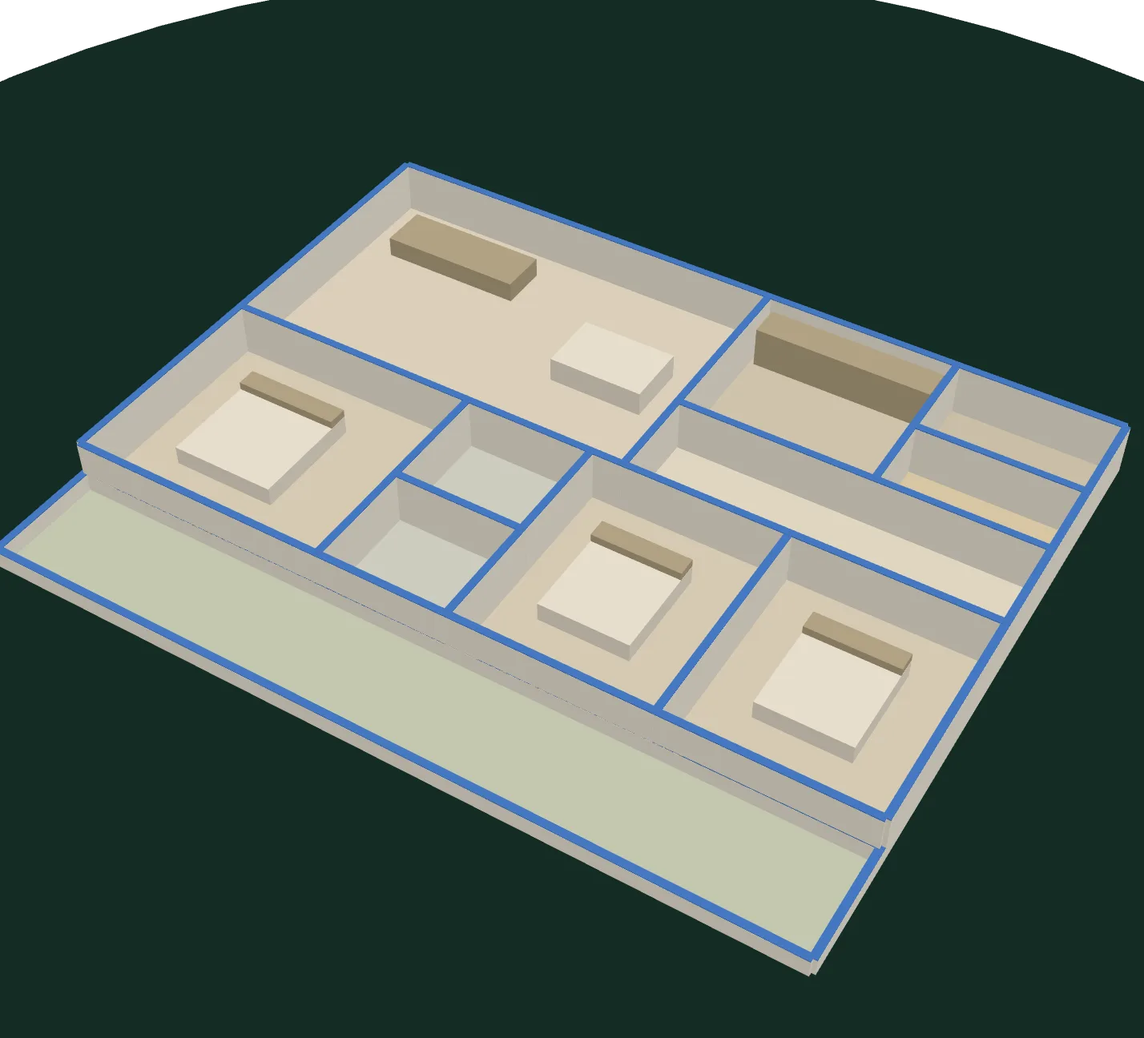
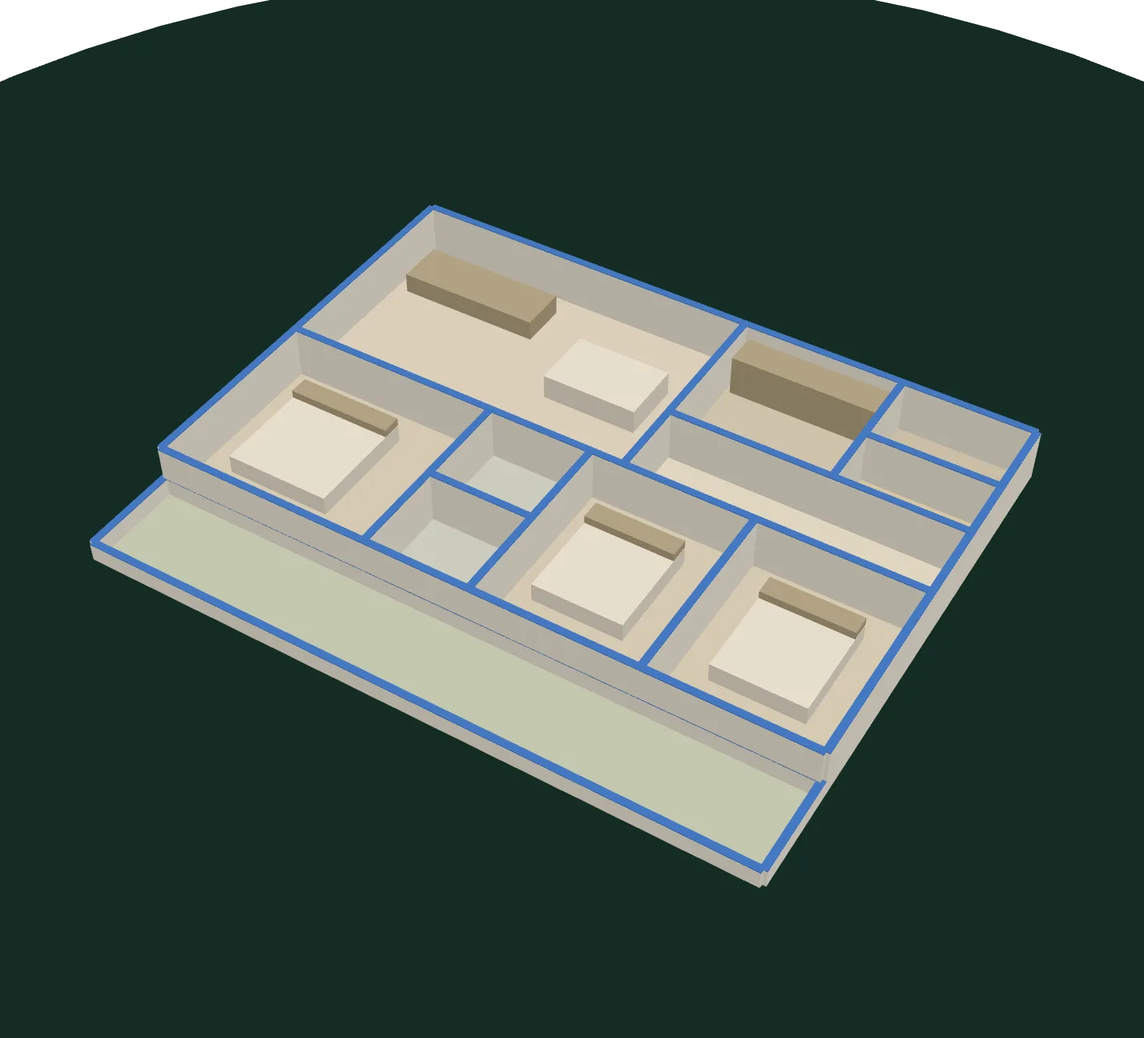
Fixes from the site review, and a CLAUDE.md for the project
- Phone layout: the map no longer pushes the page sideways (427px wide on a 390px phone)
- Visit form sends a pre-filled WhatsApp message; email stays as a fallback link
- Availability: an 'Ask about this flat on WhatsApp' button with the flat's details
- Floor plans scaled so the rooms add up; carpet area and balcony shown beside super built-up
- Contrast: muted grey #56665e, deeper turmeric for the build-stage titles, stronger muted heading lines
- Maps pin on coordinates, so Google's 'No reviews' place card no longer shows
- Router: the logo goes to the top after a section link; Back returns to where you were

Changed region(s): [[0.0, 0.1543, 0.986, 0.9568]]

diff --git a/src/data.js b/src/data.js
@@ -71,34 +71,34 @@ export function flatsFor(projectKey) {
 // Floor plans in feet. x runs west to east, y north to south. Furniture is drawn as low blocks.
 export const PLANS = {
   2: {
-    label: '2 BHK', area: 1180, w: 40, d: 34,
+    label: '2 BHK', area: 1180, w: 33, d: 28,
     rooms: [
-      { id: 'living',   name: 'Living and dining', x: 0,  y: 0,  w: 22, d: 16, tone: '#E9E1CF', items: [{ t: 'sofa', x: 2, y: 2, w: 8, d: 3 }, { t: 'table', x: 14, y: 5, w: 5, d: 3.5 }] },
-      { id: 'kitchen',  name: 'Kitchen',           x: 22, y: 0,  w: 10, d: 10, tone: '#DCD3BF', items: [{ t: 'counter', x: 22.5, y: 0.5, w: 9, d: 2 }] },
-      { id: 'utility',  name: 'Utility',           x: 32, y: 0,  w: 8,  d: 6,  tone: '#D6CDB8', items: [] },
-      { id: 'pooja',    name: 'Pooja room',        x: 32, y: 6,  w: 8,  d: 4,  tone: '#E6D6B4', items: [] },
-      { id: 'foyer',    name: 'Foyer',             x: 22, y: 10, w: 18, d: 6,  tone: '#EEE7D7', items: [] },
-      { id: 'bed1',     name: 'Bedroom 1',         x: 0,  y: 16, w: 16, d: 13, tone: '#E2DAC6', items: [{ t: 'bed', x: 3, y: 19, w: 6, d: 7 }] },
-      { id: 'bath1',    name: 'Bath 1',            x: 16, y: 16, w: 8,  d: 7,  tone: '#D9DCD3', items: [] },
-      { id: 'bed2',     name: 'Bedroom 2',         x: 24, y: 16, w: 16, d: 13, tone: '#E2DAC6', items: [{ t: 'bed', x: 31, y: 19, w: 5, d: 6.5 }] },
-      { id: 'bath2',    name: 'Bath 2',            x: 16, y: 23, w: 8,  d: 6,  tone: '#D9DCD3', items: [] },
-      { id: 'balcony',  name: 'Balcony',           x: 0,  y: 29, w: 40, d: 5,  tone: '#CFD8C4', items: [] },
+      {id: 'living', name: 'Living and dining', x: 0, y: 0, w: 18, d: 13, tone: '#E9E1CF', items: [{t: 'sofa', x: 1, y: 1.5, w: 8, d: 3},{t: 'table', x: 11, y: 4, w: 5, d: 3.5}]},
+      {id: 'kitchen', name: 'Kitchen', x: 18, y: 0, w: 8.5, d: 8, tone: '#DCD3BF', items: [{t: 'counter', x: 18.5, y: 0.5, w: 7.5, d: 2}]},
+      {id: 'utility', name: 'Utility', x: 26.5, y: 0, w: 6.5, d: 5, tone: '#D6CDB8', items: []},
+      {id: 'pooja', name: 'Pooja room', x: 26.5, y: 5, w: 6.5, d: 3, tone: '#E6D6B4', items: []},
+      {id: 'foyer', name: 'Foyer', x: 18, y: 8, w: 15, d: 5, tone: '#EEE7D7', items: []},
+      {id: 'bed1', name: 'Bedroom 1', x: 0, y: 13, w: 13, d: 11, tone: '#E2DAC6', items: [{t: 'bed', x: 2, y: 15, w: 6, d: 7}]},
+      {id: 'bath1', name: 'Bath 1', x: 13, y: 13, w: 6.5, d: 6, tone: '#D9DCD3', items: []},
+      {id: 'bed2', name: 'Bedroom 2', x: 19.5, y: 13, w: 13.5, d: 11, tone: '#E2DAC6', items: [{t: 'bed', x: 25, y: 15, w: 5, d: 6.5}]},
+      {id: 'bath2', name: 'Bath 2', x: 13, y: 19, w: 6.5, d: 5, tone: '#D9DCD3', items: []},
+      {id: 'balcony', name: 'Balcony', x: 0, y: 24, w: 33, d: 4, tone: '#CFD8C4', items: []},
     ],
   },
   3: {
-    label: '3 BHK', area: 1640, w: 48, d: 38,
+    label: '3 BHK', area: 1640, w: 40, d: 32,
     rooms: [
-      { id: 'living',   name: 'Living and dining', x: 0,  y: 0,  w: 26, d: 17, tone: '#E9E1CF', items: [{ t: 'sofa', x: 2, y: 2, w: 9, d: 3 }, { t: 'table', x: 17, y: 6, w: 6, d: 4 }] },
-      { id: 'kitchen',  name: 'Kitchen',           x: 26, y: 0,  w: 12, d: 11, tone: '#DCD3BF', items: [{ t: 'counter', x: 26.5, y: 0.5, w: 11, d: 2 }] },
-      { id: 'utility',  name: 'Utility',           x: 38, y: 0,  w: 10, d: 6,  tone: '#D6CDB8', items: [] },
-      { id: 'pooja',    name: 'Pooja room',        x: 38, y: 6,  w: 10, d: 5,  tone: '#E6D6B4', items: [] },
-      { id: 'foyer',    name: 'Foyer',             x: 26, y: 11, w: 22, d: 6,  tone: '#EEE7D7', items: [] },
-      { id: 'bed1',     name: 'Bedroom 1',         x: 0,  y: 17, w: 16, d: 14, tone: '#E2DAC6', items: [{ t: 'bed', x: 3, y: 20, w: 6.5, d: 7 }] },
-      { id: 'bath1',    name: 'Bath 1',            x: 16, y: 17, w: 8,  d: 7,  tone: '#D9DCD3', items: [] },
-      { id: 'bath2',    name: 'Bath 2',            x: 16, y: 24, w: 8,  d: 7,  tone: '#D9DCD3', items: [] },
-      { id: 'bed2',     name: 'Bedroom 2',         x: 24, y: 17, w: 12, d: 14, tone: '#E2DAC6', items: [{ t: 'bed', x: 26.5, y: 20, w: 5.5, d: 6.5 }] },
-      { id: 'bed3',     name: 'Bedroom 3',         x: 36, y: 17, w: 12, d: 14, tone: '#E2DAC6', items: [{ t: 'bed', x: 39, y: 20, w: 5.5, d: 6.5 }] },
-      { id: 'balcony',  name: 'Balconies',         x: 0,  y: 31, w: 48, d: 7,  tone: '#CFD8C4', items: [] },
+      {id: 'living', name: 'Living and dining', x: 0, y: 0, w: 22, d: 14, tone: '#E9E1CF', items: [{t: 'sofa', x: 1, y: 1.5, w: 9, d: 3},{t: 'table', x: 13.5, y: 4.5, w: 6, d: 4}]},
+      {id: 'kitchen', name: 'Kitchen', x: 22, y: 0, w: 10, d: 9, tone: '#DCD3BF', items: [{t: 'counter', x: 22.5, y: 0.5, w: 9, d: 2}]},
+      {id: 'utility', name: 'Utility', x: 32, y: 0, w: 8, d: 5, tone: '#D6CDB8', items: []},
+      {id: 'pooja', name: 'Pooja room', x: 32, y: 5, w: 8, d: 4, tone: '#E6D6B4', items: []},
+      {id: 'foyer', name: 'Foyer', x: 22, y: 9, w: 18, d: 5, tone: '#EEE7D7', items: []},
+      {id: 'bed1', name: 'Bedroom 1', x: 0, y: 14, w: 13.5, d: 12, tone: '#E2DAC6', items: [{t: 'bed', x: 2, y: 16, w: 6.5, d: 7}]},
+      {id: 'bath1', name: 'Bath 1', x: 13.5, y: 14, w: 6.5, d: 6, tone: '#D9DCD3', items: []},
+      {id: 'bath2', name: 'Bath 2', x: 13.5, y: 20, w: 6.5, d: 6, tone: '#D9DCD3', items: []},
+      {id: 'bed2', name: 'Bedroom 2', x: 20, y: 14, w: 10, d: 12, tone: '#E2DAC6', items: [{t: 'bed', x: 21.5, y: 16, w: 5.5, d: 6.5}]},
+      {id: 'bed3', name: 'Bedroom 3', x: 30, y: 14, w: 10, d: 12, tone: '#E2DAC6', items: [{t: 'bed', x: 32, y: 16, w: 5.5, d: 6.5}]},
+      {id: 'balcony', name: 'Balconies', x: 0, y: 26, w: 40, d: 6, tone: '#CFD8C4', items: []},
     ],
   },
 };

diff --git a/src/styles.css b/src/styles.css
@@ -2,7 +2,7 @@
    client's pick. Type: Anek Latin, condensed for display, normal width for text. */
 
 :root {
-  --bg: #f1f2ec; --surface: #e3e6dc; --ink: #0f231d; --muted: #6f7f77; --line: rgb(15 35 29 / .14);
+  --bg: #f1f2ec; --surface: #e3e6dc; --ink: #0f231d; --muted: #56665e; --line: rgb(15 35 29 / .14);
   --accent: #295290; --accent-2: #3567b0; --accent-3: #4179c9; --turmeric: #e0a526;
   --dark: #0f231d; --dark-2: #16302a; --cream: #f1f2ec; --on-dark-muted: #a3b2a8;
   --gut: clamp(20px, 5.5vw, 80px); --max: 1360px; --nav: 76px;
@@ -13,7 +13,7 @@
 }
 
 *, *::before, *::after { box-sizing: border-box; }
-html { scroll-behavior: smooth; -webkit-text-size-adjust: 100%; }
+html { scroll-behavior: smooth; -webkit-text-size-adjust: 100%; overflow-x: clip; }   /* nothing may push the page sideways */
 html.is-locked { overflow: hidden; }
 body { margin: 0; background: var(--bg); color: var(--ink); font: 400 1.0625rem/1.5 var(--text); font-optical-sizing: auto; -webkit-font-smoothing: antialiased; }
 img, video, iframe { display: block; max-width: 100%; }
@@ -39,7 +39,7 @@ input, textarea, select { -webkit-user-select: text; user-select: text; }
 h1, h2, h3, .display { font-family: var(--display); font-stretch: 76%; font-weight: 560; letter-spacing: -0.02em; line-height: .98; text-wrap: balance; }
 h2 { font-size: clamp(38px, 5.2vw, 84px); }
 h3 { font-size: clamp(26px, 2.4vw, 36px); }
-.is-muted { color: color-mix(in oklab, currentColor 42%, transparent); }
+.is-muted { color: color-mix(in oklab, currentColor 62%, transparent); }
 .label { font-size: 0.9375rem; font-weight: 500; color: var(--turmeric); }
 
 /* words rising out of a mask */
@@ -223,10 +223,11 @@ h3 { font-size: clamp(26px, 2.4vw, 36px); }
 .rows--route .num b { overflow: hidden; }
 .rows__go { display: inline-flex; width: 14px; opacity: 0; translate: -6px 0; transition: opacity .2s, translate .3s var(--ease); }
 .rows--route > li:is(:hover, .is-on, :focus-visible) .rows__go { opacity: 1; translate: 0 0; }
-.mapcard { display: grid; gap: 14px; position: sticky; top: 12vh; }
+.mapcard { display: grid; gap: 14px; position: sticky; top: 12vh; min-width: 0; }
 .mapcard__tabs { justify-self: start; max-width: 100%; overflow-x: auto; scrollbar-width: none; }
 .mapcard__tabs button { white-space: nowrap; }
-.mapcard__map { min-height: 0; height: clamp(380px, 62vh, 620px); box-shadow: inset 0 0 0 1px var(--line); }
+/* width from the column, never from the .gmap aspect ratio (that pushed the page sideways on phones) */
+.mapcard__map { min-height: 0; width: 100%; aspect-ratio: auto; height: clamp(380px, 62vh, 620px); box-shadow: inset 0 0 0 1px var(--line); }
 .mapcard__map iframe { position: absolute; inset: 0; width: 100%; height: 100%; border: 0; }
 .mapcard__note { min-height: 1.5em; font-size: 0.9375rem; color: var(--muted); }
 .mapcard__note b { color: var(--ink); font-weight: 600; }
@@ -352,6 +353,7 @@ h3 { font-size: clamp(26px, 2.4vw, 36px); }
 .flat dl { display: grid; grid-template-columns: 1fr 1fr; gap: 16px 24px; margin-top: 16px; }
 .flat dt { font-size: 0.8125rem; color: var(--muted); }
 .flat dd { margin-top: 2px; font-size: 1.125rem; font-weight: 500; }
+.flat__ask { margin-top: 20px; }
 
 /* ---------- gallery and lightbox ---------- */
 .wall { display: grid; grid-template-columns: repeat(12, minmax(0, 1fr)); grid-auto-rows: clamp(180px, 24vw, 340px); gap: 6px; }
@@ -424,7 +426,7 @@ h3 { font-size: clamp(26px, 2.4vw, 36px); }
   .nav__toggle { display: block; }
   .split, .split--viz, .stages { grid-template-columns: 1fr; }
   .split--map > .mapcard { position: relative; top: 0; order: -1; }
-  .mapcard__map { height: min(78vw, 440px); }
+  .mapcard__map { height: min(78vw, 440px); aspect-ratio: auto; }
   .split--viz > .viz { position: relative; top: 0; order: -1; height: min(74vw, 480px); }
   .fill { min-height: 0; height: auto; }
   .pic.fill { aspect-ratio: 4 / 3; }
@@ -504,8 +506,9 @@ h3 { font-size: clamp(26px, 2.4vw, 36px); }
   .is-muted { color: inherit; }
 }
 
-/* the build-stages section: its heading and the four stage titles in the site's turmeric (the client's choice) */
-#build .head h2, #build .stages__steps h3 { color: var(--turmeric); }
+/* the build-stages section: its heading and the four stage titles in the site's turmeric (the client's choice), taken a few
+   shades deeper on this light background so they pass contrast for large text (3.5:1; the bright turmeric was 1.7:1) */
+#build .head h2, #build .stages__steps h3 { color: #9c6f0c; }
 
 /* a toggle is only as wide as its options, even inside a stretched panel */
 .seg { justify-self: start; }

diff --git a/src/Project.jsx b/src/Project.jsx
@@ -3,7 +3,7 @@
 import { useCallback, useEffect, useMemo, useRef, useState } from 'react';
 import { motion, AnimatePresence, LayoutGroup, useMotionValue, useTransform } from 'framer-motion';
 import { Link, BASE, Words, Rise, Picture, Counter, Arrow, EASE, SPRING, FLICK, project, tick } from './lib.jsx';
-import { Nav, Hero, Viz, Head, Visit, Footer, gmaps } from './components.jsx';
+import { Nav, Hero, Viz, Head, Visit, Footer, gmaps, wa } from './components.jsx';
 import { PROJECTS, PLANS, MAP, STATUS, flatsFor } from './data.js';
 import { PAGES, ORDER } from './content.js';
 
@@ -74,6 +74,15 @@ function Availability({ page }) {
                     <div><dt>Facing</dt><dd>{f.facing}</dd></div>
                     <div><dt>Status</dt><dd><i className="dot" style={{ background: STATUS[f.status].color }} />{STATUS[f.status].label}</dd></div>
                   </dl>
+                  {/* the next step for the flat on show: ask about it by name, with the details already in the message */}
+                  {f.status !== 'sold' && (() => {
+                    const name = `Flat ${f.floor}${f.unit}${proj.towers.length > 1 ? `, Tower ${f.tower}` : ''}`;
+                    return (
+                      <a className="btn btn--solid flat__ask" target="_blank" rel="noopener"
+                        href={wa(`Hello Tamala Homes, I'm interested in ${name} at Tamala ${page.short} (${f.bhk} BHK, ${f.area.toLocaleString('en-IN')} sq ft, ${f.facing} facing). Please share the price and a time to see it.`)}>
+                        Ask about {f.floor}{f.unit} on WhatsApp<Arrow /></a>
+                    );
+                  })()}
                 </motion.div>
               </AnimatePresence>
             </div>
@@ -115,7 +124,19 @@ function Plans({ page }) {
               <Seg label="Flat type" value={bhk} onChange={setBhk} options={[[2, '2 BHK'], [3, '3 BHK']]} />
               <Seg label="View" value={mode} onChange={setMode} options={[['3d', '3D'], ['layout', 'Layout']]} />
             </div>
-            <ul className="rows rows--tight"><li><span>Super built-up area</span><span className="num">{plan.area.toLocaleString('en-IN')} sq ft</span></li></ul>
+            {/* the three areas a buyer compares: carpet (the rooms inside the walls, as RERA counts it), the balcony, and the
+                super built-up figure the flat is sold by. Carpet is worked out from the plan itself, so the numbers always add up */}
+            {(() => {
+              const sq = r => r.w * r.d, bal = plan.rooms.filter(r => r.id === 'balcony').reduce((s, r) => s + sq(r), 0);
+              const carpet = plan.rooms.reduce((s, r) => s + sq(r), 0) - bal;
+              return (
+                <ul className="rows rows--tight">
+                  <li><span>Carpet area</span><span className="num">{Math.round(carpet).toLocaleString('en-IN')} sq ft</span></li>
+                  <li><span>Balcony</span><span className="num">{Math.round(bal).toLocaleString('en-IN')} sq ft</span></li>
+                  <li><span>Super built-up area</span><span className="num">{plan.area.toLocaleString('en-IN')} sq ft</span></li>
+                </ul>
+              );
+            })()}
             <ul className="rows rows--tight rows--hover" aria-label="Rooms" onMouseLeave={() => setRoom(null)}>
               <AnimatePresence mode="popLayout" initial={false}>
                 {plan.rooms.map((r, i) => (
@@ -290,7 +311,7 @@ export default function Project({ page }) {
                 </p>
               </div>
               <Rise className="gmap fill">
-                <iframe title={`Google map of ${page.place}, Guntur`} src={`https://www.google.com/maps?q=${encodeURIComponent(place)}&z=14&output=embed`} loading="lazy" referrerPolicy="no-referrer-when-downgrade" allowFullScreen />
+                <iframe title={`Google map of ${page.place}, Guntur`} src={`https://www.google.com/maps?q=${page.ll}&z=15&output=embed`} loading="lazy" referrerPolicy="no-referrer-when-downgrade" allowFullScreen />
               </Rise>
             </div>
           </div>

diff --git a/src/components.jsx b/src/components.jsx
@@ -237,8 +237,12 @@ export function Visit({ project, heading, lead, photo, spot }) {
     for (const k of ['name', 'phone', 'date']) { const m = check(k, v[k]); if (m) er[k] = m; }
     setErr(er);
     if (Object.keys(er).length) { const first = e.currentTarget.querySelector(`[name="${Object.keys(er)[0]}"]`); first && first.focus(); return; }
-    const body = `Name: ${v.name}\nPhone: ${v.phone}\nProject: ${v.project}\nDay of the visit: ${v.date}`;
-    window.location.href = `mailto:${CONTACT.email}?subject=${encodeURIComponent('Site visit request: ' + v.project)}&body=${encodeURIComponent(body)}`;
+    // the request goes out as a WhatsApp message, filled in and ready to send: that's how most families here reach us
+    // (an email app is often not set up on a phone); email stays as a link under the button
+    const day = new Date(v.date + 'T12:00').toLocaleDateString('en-IN', { weekday: 'long', day: 'numeric', month: 'long' });
+    const msg = `Hello Tamala Homes, I would like to book a site visit.\nName: ${v.name}\nPhone: ${v.phone}\nProject: ${v.project}\nDay: ${day}`;
+    const w = window.open(wa(msg), '_blank', 'noopener');
+    if (!w) window.location.href = wa(msg);
     setSent(true); tick();
   };
   const field = (k, label, props) => (
@@ -266,7 +270,8 @@ export function Visit({ project, heading, lead, photo, spot }) {
             {field('date', 'Day of the visit', { type: 'date' })}
             <div className="form__foot">
               <Magnetic pull={0.18}><button className="btn btn--solid btn--lg" type="submit">Book a site visit<Arrow /></button></Magnetic>
-              <p className="form__note" role="status">{sent ? 'Your email app opens with the request filled in. Send it and we call you within a day.' : 'We call you within a day to fix the time.'}</p>
+              <p className="form__note" role="status">{sent ? 'WhatsApp opens with your request filled in. Send it and we call you within a day.' : 'Opens WhatsApp with your request filled in. We call you within a day to fix the time.'}</p>
+              <p className="form__note">Rather use email? <a className="link" href={`mailto:${CONTACT.email}?subject=${encodeURIComponent('Site visit request: ' + v.project)}&body=${encodeURIComponent(`Name: ${v.name}\nPhone: ${v.phone}\nProject: ${v.project}\nDay of the visit: ${v.date}`)}`}>Send it by email</a></p>
             </div>
           </Rise>
           <div className="visit__side">

diff --git a/src/content.js b/src/content.js
@@ -5,7 +5,9 @@ export const ORDER = ['arundelpet', 'amaravati-road', 'gorantla'];
 
 export const PAGES = {
   arundelpet: {
-    key: 'arundelpet', name: 'Tamala Arundelpet', short: 'Arundelpet', place: 'Arundelpet', inPlace: 'in Arundelpet',
+    // ll: where the map drops its pin. A pin on coordinates shows a plain card; a place-name search showed Google's
+    // place card with "No reviews", which reads badly for a builder
+    key: 'arundelpet', name: 'Tamala Arundelpet', short: 'Arundelpet', place: 'Arundelpet', ll: '16.2989,80.4439', inPlace: 'in Arundelpet',
     status: 'Ready to move', title: '2 and 3 BHK flats in Arundelpet, Guntur',
     card: 'One tower of 32 flats near the railway station.',
     cardImg: 'arundelpet-exterior.webp', cardAlt: 'White apartment tower among palm trees', cardPos: '50% 30%',
@@ -19,7 +21,7 @@ export const PAGES = {
       ['bedroom-island.webp', 'A bedroom beside a kitchen island'], ['openplan-wood.webp', 'An open plan flat with a wooden slatted wall'], ['city-view.webp', 'A breakfast counter by a window onto apartment towers']],
   },
   'amaravati-road': {
-    key: 'amaravati-road', name: 'Tamala Amaravati Road', short: 'Amaravati Road', place: 'Amaravati Road', inPlace: 'on Amaravati Road',
+    key: 'amaravati-road', name: 'Tamala Amaravati Road', short: 'Amaravati Road', place: 'Amaravati Road', ll: '16.3204,80.4390', inPlace: 'on Amaravati Road',
     status: 'Under construction', title: '2 and 3 BHK flats on Amaravati Road, Guntur',
     card: 'Two towers of 96 flats, handover December 2027.',
     cardImg: 'amaravati-exterior.webp', cardAlt: 'Two apartment towers in slate and orange under a cloudy sky', cardPos: '50% 50%',
@@ -35,7 +37,7 @@ export const PAGES = {
     progressImg: ['build-crew.webp', 'Workers in hard hats and safety vests inside a building under construction'],
   },
   gorantla: {
-    key: 'gorantla', name: 'Tamala Gorantla', short: 'Gorantla', place: 'Gorantla', inPlace: 'in Gorantla',
+    key: 'gorantla', name: 'Tamala Gorantla', short: 'Gorantla', place: 'Gorantla', ll: '16.3389,80.4268', inPlace: 'in Gorantla',
     status: 'Launching soon', title: '2 and 3 BHK flats in Gorantla, Guntur',
     card: 'Three towers of 168 flats off the Inner Ring Road.',
     cardImg: 'gorantla-exterior.webp', cardAlt: 'Apartment towers lit by the evening sun', cardPos: '50% 50%',

diff --git a/src/lib.jsx b/src/lib.jsx
@@ -14,7 +14,12 @@ export const tick = () => { try { navigator.vibrate && navigator.vibrate(8); } c
 /* ---------- router ---------- */
 const subs = new Set();
 const notify = () => subs.forEach(f => f());
-window.addEventListener('popstate', notify);
+// Back and forward return to where you were on that page: each history entry remembers its scroll position,
+// and the page transition hands it back once the old page has left (see takeScroll in App.jsx)
+if ('scrollRestoration' in history) history.scrollRestoration = 'manual';
+let landY = 0;
+window.addEventListener('popstate', () => { landY = (history.state && history.state.y) || 0; notify(); });
+export const takeScroll = () => { const y = landY; landY = 0; return y; };
 // The site may live under a folder (GitHub Pages serves it at /tamala-homes/). App paths stay '/projects/x';
 // BASE is added on the way out to the address bar and to files, and taken off on the way in.
 export const BASE = import.meta.env.BASE_URL.replace(/\/+$/, '');
@@ -22,7 +27,14 @@ const strip = p => (BASE && p.startsWith(BASE) ? p.slice(BASE.length) : p).repla
 const clean = () => strip(location.pathname);
 const full = to => (to.startsWith('/') ? BASE + to : to);
 export function navigate(to) {
-  if (full(to) === location.pathname + location.hash) { window.scrollTo({ top: 0, behavior: 'smooth' }); return; }
+  const [p, h] = to.split('#');
+  // the same page without a section (the logo after a #map link, say): go to the top and drop the section from the address
+  if (!h && strip(full(p || '/')) === clean()) {
+    window.scrollTo({ top: 0, behavior: 'smooth' });
+    if (location.hash) history.replaceState(history.state, '', full(p || '/'));
+    return;
+  }
+  history.replaceState({ ...(history.state || {}), y: scrollY }, '');   // remember where we were, for Back
   history.pushState({}, '', full(to)); notify();
 }
 export function usePath() {

diff --git a/src/App.jsx b/src/App.jsx
@@ -1,7 +1,7 @@
 // The app: intro, cursor, and the routed pages with a curtain between them.
 import { useCallback, useEffect, useState } from 'react';
 import { AnimatePresence, MotionConfig, motion, useReducedMotion } from 'framer-motion';
-import { usePath, Ready, EASE } from './lib.jsx';
+import { usePath, Ready, EASE, takeScroll } from './lib.jsx';
 import { Cursor, Preloader } from './components.jsx';
 import { PAGES } from './content.js';
 import Home from './Home.jsx';
@@ -37,6 +37,14 @@ function Page({ children }) {
   );
 }
 
+// after a page change: the top for a new page, or the remembered spot after Back or Forward. The new page may still be
+// growing (lazy sections), so try for a few frames until the spot can be reached
+function landAt() {
+  const y = takeScroll();
+  const go = (n = 0) => { window.scrollTo({ top: y, behavior: 'instant' }); if (Math.abs(scrollY - y) > 2 && n < 30) requestAnimationFrame(() => go(n + 1)); };
+  go();
+}
+
 export default function App() {
   const path = usePath();
   const reduce = useReducedMotion();
@@ -47,7 +55,7 @@ export default function App() {
       <Ready.Provider value={ready}>
         <Cursor />
         <AnimatePresence>{!ready && <Preloader key="intro" onDone={done} />}</AnimatePresence>
-        <AnimatePresence mode="wait" onExitComplete={() => window.scrollTo({ top: 0, behavior: 'instant' })}>
+        <AnimatePresence mode="wait" onExitComplete={landAt}>
           <Page key={path}>{route(path)}</Page>
         </AnimatePresence>
       </Ready.Provider>

diff --git a/src/Home.jsx b/src/Home.jsx
@@ -70,7 +70,7 @@ function MapSection() {
   const dest = to >= 0 ? MAP.landmarks[to] : null;
   const src = dest
     ? `https://www.google.com/maps?saddr=${enc(from)}&daddr=${enc(inGuntur(dest.name))}&output=embed`
-    : `https://www.google.com/maps?q=${enc(from)}&z=14&output=embed`;
+    : `https://www.google.com/maps?q=${p.ll}&z=15&output=embed`;
   const pick = k => { setSel(k); setTo(-1); };
   const route = i => setTo(t => (t === i ? -1 : i));
   return (

diff --git a/CLAUDE.md b/CLAUDE.md
@@ -1,0 +1,62 @@
+# Tamala Homes
+
+A website for a fictional apartment builder in Guntur, Andhra Pradesh: three projects (Arundelpet, Amaravati Road, Gorantla), each with a project page, a 3D tower, floor plans and a visit form. Tamala Homes is a coined name for now. All photos and films are Pexels stand-ins; phone numbers, addresses, prices and project facts are placeholders.
+
+- **Live site:** https://sandeep14865.github.io/tamala-homes/
+- **Repo:** https://github.com/Sandeep14865/tamala-homes (public). Every push to `main` deploys through `.github/workflows/pages.yml`.
+
+## Stack and layout
+
+React 18 single-page app built with Vite 6 (plain JSX, no TypeScript), Framer Motion for animation, three.js for the 3D tower and floor plans.
+
+| File | What it holds |
+|---|---|
+| `src/App.jsx` | Router, intro, page curtain |
+| `src/lib.jsx` | History router (`BASE`, `Link`, `navigate`), motion helpers (`Words`, `Rise`, `Picture`, `Magnetic`, `Counter`), springs |
+| `src/components.jsx` | Nav, cursor, hero, 3D frame, visit form, footer |
+| `src/Home.jsx` | Home sections: projects, map, promise, build stages, amenities, visit |
+| `src/Project.jsx` | Project pages |
+| `src/Orb.jsx` | The travelling turmeric shape on the home page |
+| `src/Legal.jsx` | Privacy, terms, credits |
+| `src/content.js`, `src/data.js` | Page copy; flats, plans, map, contacts |
+| `src/three/*` | Imperative three.js scenes, each with `dispose()` |
+| `src/styles.css` | All styles, one file |
+
+Routes: `/`, `/projects/<key>`, `/privacy`, `/terms`, `/credits`.
+
+## Commands
+
+- `npm run dev`: dev server on http://localhost:5173/
+- `npm run build`: builds to `dist/`, then `scripts/spa-pages.mjs` copies `index.html` to every route and to `404.html` for static hosting
+- `node scripts/posters.mjs`: regenerates the 3D poster images (needs the dev server running)
+
+## Rules that must hold
+
+- **Paths go through `BASE`.** The site is served from the `/tamala-homes/` sub-folder. Media and file paths are written as `` `${BASE}/media/...` `` and links use `Link` from `src/lib.jsx`. A bare `/media/...` string breaks the live site.
+- **Text selection is off site-wide** (`user-select: none`). This is deliberate.
+- **Motion:** use springs with no bounce (`SPRING` in `lib.jsx`); bounce only after a flick or drag. Every animation needs a calm `prefers-reduced-motion` fallback.
+- **Mobile is a first-class target.** Check every change at 390px wide as well as on desktop.
+
+## Look (the client's choices: keep them)
+
+- **Colours:** limewash `#f1f2ec` (background), tamala green `#0f231d` (ink and dark sections), action blue `#295290`, muted `#6f7f77`, turmeric `#e0a526`.
+- **Type:** Anek Latin, condensed (`font-stretch: 76%`) for display text.
+- **Hero:** full-screen film or photo, the giant name and one glass button. Nothing else.
+- **Build stages:** the heading and the four stage titles are turmeric, in a deeper shade (`#9c6f0c`) so they pass contrast on the light background; photos change with a wipe, never a blend.
+- **Contrast:** text must pass WCAG AA (muted grey is `#56665e` for that reason). Check new colour pairs before using them.
+- **Enquiries go through WhatsApp:** the visit form and the "Ask about this flat" button open a pre-filled WhatsApp message; email is only a fallback link.
+- **Floor plans add up:** carpet area is worked out from the drawn rooms and shown next to the balcony and the super built-up figure. If you change a plan, the drawn rooms must stay below the super built-up area.
+- **Tower view:** only the selected flat is coloured.
+- **Map section:** a Google Maps embed with project tabs and drive-time rows that draw the route (keyless embed URLs).
+- **Amenities:** round photos that roll in; a swipe row on phones.
+- **Travelling shape (`Orb.jsx`):** one turmeric shape follows the home page, resting at `<Spot shape="..."/>` markers (pin, ring, brick, sun, target). It sits on the page, not the screen: absolute position in page coordinates, so it scrolls natively while it rests. It holds still at full size for the first and last fifth of each gap and glides through the middle, with sine easing and a short follow. All shapes rest at one size (136px desktop, 68px phone).
+  - Desktop: the section name curves round inside the shape in pure black.
+  - Phone: a one-word cream tag (MAP, PROMISE, BUILD, AMENITIES, VISIT) slides out beside it.
+
+## How to check a change
+
+1. Run the dev server and look at the change at 1440×900 and at 390×844.
+2. No errors in the console.
+3. For motion, scroll through it, including a fast flick and a jerky wheel; one still frame doesn't show motion problems.
+4. Before a risky experiment, tag the current commit (for example `git tag amenities-list-version`) so going back is one step.
+5. After pushing, confirm the Pages run passed (`gh run list -L1`) and the change is in the live bundle.
